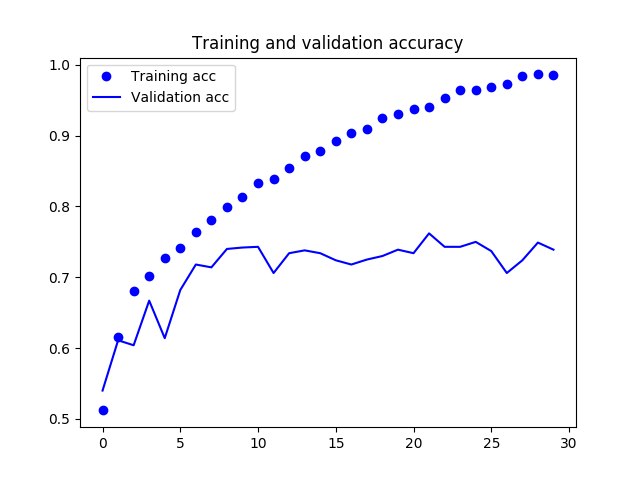
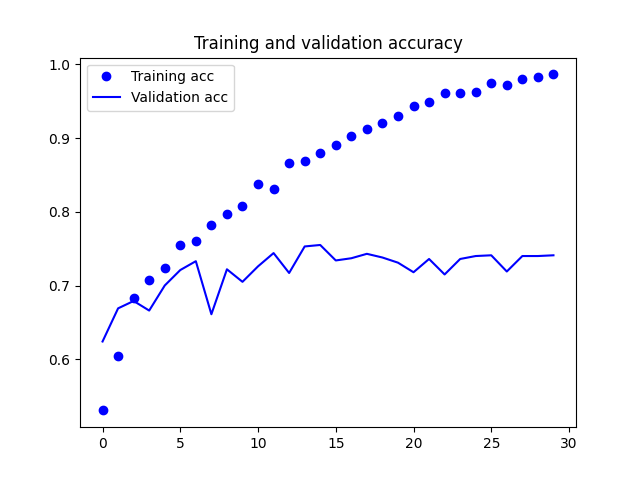
Delete some wrong parameter settings.

diff --git a/Chapter5/chapter5_2_2.py b/Chapter5/chapter5_2_2.py
@@ -30,15 +30,10 @@ model.compile(loss='binary_crossentropy',
 train_datagen = ImageDataGenerator(rescale=1./255)
 test_datagen = ImageDataGenerator(rescale=1./255)
 
-# The path to the directory where the original
-# dataset was uncompressed
-original_dataset_dir = '/media/boom/HDD/FanBu/资料/PhD/research/dogs_vs_cats_rearr/train_rearr'
-
-# The directory where we will
-# store our smaller dataset
+# The directory where we store our smaller dataset
 base_dir = '/media/boom/HDD/FanBu/资料/PhD/research/cats_and_dogs_small'
 if not os.path.exists(base_dir):
-    os.mkdir(base_dir)
+    print("Wrong path:", base_dir)
 
 # Directories for our training,
 # validation and test splits
@@ -67,10 +62,11 @@ for data_batch, labels_batch in train_generator:
 
 history = model.fit_generator(
       train_generator,
-      steps_per_epoch=100,
       epochs=30,
-      validation_data=validation_generator,
-      validation_steps=50)
+      validation_data=validation_generator)
+# steps_per_epoch=100,  # We don't need to specify this. By default, it equals to data_total_num/bastch_size
+# validation_steps=50,  # We don't need this either. By default, it equals to the number of all images in the val set.
+# So validation_steps doe NOT mean we do validation for every X steps. It actually means the number of images we test in one validation.
 
 model.save('cats_and_dogs_small_1.h5')
 

diff --git a/Chapter5/chapter5_2_4.py b/Chapter5/chapter5_2_4.py
@@ -72,10 +72,11 @@ validation_generator = test_datagen.flow_from_directory(
 
 history = model.fit_generator(
       train_generator,
-      steps_per_epoch=100,
       epochs=100,
-      validation_data=validation_generator,
-      validation_steps=50)
+      validation_data=validation_generator)
+# steps_per_epoch=100,  # We don't need to specify this. By default, it equals to data_total_num/bastch_size
+# validation_steps=50,  # We don't need this either. By default, it equals to the number of all images in the val set.
+# So validation_steps doe NOT mean we do validation for every X steps. It actually means the number of images we test in one validation.
 
 model.save('cats_and_dogs_small_2.h5')
 

diff --git a/Chapter5/chapter5_3_3.py b/Chapter5/chapter5_3_3.py
@@ -132,10 +132,11 @@ model.compile(loss='binary_crossentropy',
 
 history = model.fit_generator(
       train_generator,
-      steps_per_epoch=100,
       epochs=100,
-      validation_data=validation_generator,
-      validation_steps=50)
+      validation_data=validation_generator)
+# steps_per_epoch=100,  # We don't need to specify this. By default, it equals to data_total_num/bastch_size
+# validation_steps=50,  # We don't need this either. By default, it equals to the number of all images in the val set.
+# So validation_steps doe NOT mean we do validation for every X steps. It actually means the number of images we test in one validation.
 
 model.save('cats_and_dogs_small_4.h5')
 

diff --git a/Chapter5/chapter5_3_2.py b/Chapter5/chapter5_3_2.py
@@ -111,11 +111,12 @@ model.compile(loss='binary_crossentropy',
 
 history = model.fit_generator(
       train_generator,
-      steps_per_epoch=100,
       epochs=30,
       validation_data=validation_generator,
-      validation_steps=50,
       verbose=2)
+# steps_per_epoch=100,  # We don't need to specify this. By default, it equals to data_total_num/bastch_size
+# validation_steps=50,  # We don't need this either. By default, it equals to the number of all images in the val set.
+# So validation_steps doe NOT mean we do validation for every X steps. It actually means the number of images we test in one validation.
 
 model.save('cats_and_dogs_small_3.h5')
 
